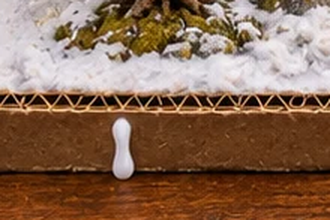
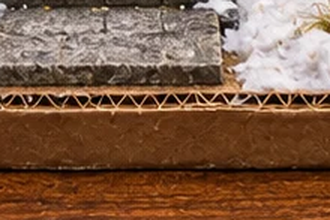
feat(field): D-prime の手順・目視項目・決定の追記、旧の段ボール見本(テープ入り)を参照から外す、craft を台帳参照に (Refs #191)

diff --git a/.claude/skills/sit-field-background/tools/oblique_e2_measure.py b/.claude/skills/sit-field-background/tools/oblique_e2_measure.py
@@ -68,6 +68,8 @@ HUMAN_ITEMS = [
     "質感が工作の素材（綿の雪・紙粘土・段ボール・紙やすり）か。実写のような質感・本物の雪になっていないか（屋根・塀・地面・枝の雪がすべて綿か。決定 SIT.miniature-materials-not-photoreal。採否の前に必ず挙げる）",
     "消雪パイプの穴が道路の中央線の上だけにあるか（路肩・縁・私有地・石畳に無いか。水の噴射が無いか。決定 SIT.shosetsu-hole-only）",
     "景色の扉（閉じた門・潜り戸・格子戸・土蔵の扉）が入れそうに見えないか（前に段・通路・足跡・石段・開いた隙間が無く、塀・段差・植栽・雪で塞がれているか。決定 SIT.scenery-door-not-enterable）",
+    "台座の前縁・飾りがわざとらしくないか（等間隔・全マップ同位置のテープ・糊の垂れ・同じ形の繰り返しが無いか。変化はマップごとにばらつく自然な傷み・汚れか。決定 SIT.base-edge-no-staged-decor）",
+    "鉄道模型のジオラマのような質感か（雪は繊維の見える綿、木は簡略化したスポンジの塊、塀・柵は爪楊枝・割り箸・マッチ棒、地面はターフ・おがくず。形は単純で縁が硬く、写真のように精密でないか）",
     "段ボールの土台・雪・木の質感の様式（手作りミニチュアらしさ）",
 ]
 

diff --git a/.claude/skills/sit-field-background/tools/oblique_material_sheet.py b/.claude/skills/sit-field-background/tools/oblique_material_sheet.py
@@ -32,7 +32,7 @@ CROPS = [
     ("03-plaster-wall-wood", T3, (1150, 170, 1370, 317), "紙粘土の漆喰壁と木の窓枠"),
     ("04-sponge-pine", T3, (1060, 690, 1280, 837), "スポンジと綿の松"),
     ("05-cut-stone-paving", T3, (770, 400, 990, 547), "石粉粘土の石畳"),
-    ("06-cardboard-edge", T3, (40, 790, 260, 937), "段ボール断面の台座"),
+    ("06-cardboard-edge", T3, (760, 790, 980, 937), "段ボール断面の台座（テープ・糊の垂れの無い区間）"),
     ("07-clay-stone-base", T8, (130, 780, 350, 927), "石粉粘土の石積みと綿の雪"),
     ("08-black-paper-road", T8, (560, 340, 780, 487), "黒紙とサンドペーパーの道"),
     ("09-clipped-hedge-wall", T8, (610, 740, 830, 887), "紙粘土の石垣と刈り込みの生垣"),

diff --git a/scripts/verify_ledger.rb b/scripts/verify_ledger.rb
@@ -55,7 +55,7 @@ class LedgerVerifier
   end
 
   # 描画定数・プロンプト文面: 空値なし、変数列と本文の {名前} が一致、コード（oblique_*.py）が参照するIDが全て在り、どの行もコードから参照されている（死んだ行を残さない）
-  CODE_REF = /["']((?:PR|MK|TP)\.[A-Za-z0-9._-]*|(?:view|width|door|window|slab|occlusion|topology|battle|town|tree)\.[A-Za-z0-9._-]*)["']/.freeze
+  CODE_REF = /["']((?:PR|MK|TP)\.[A-Za-z0-9._-]*|(?:view|width|door|window|slab|occlusion|topology|battle|town|tree|craft)\.[A-Za-z0-9._-]*)["']/.freeze
 
   def check_code_texts
     texts = @t['プロンプト文面']

diff --git a/docs/ledger-views/決定.md b/docs/ledger-views/決定.md
@@ -646,7 +646,7 @@
 | SIT.scenery-door-not-enterable | 2026-11-11 | 全体:sit-by-me | 有効 | 入れない景色としての扉（閉じた門・潜り戸・格子戸・土蔵の扉・冠木門など。plan の scenery_doors）を、入れるような見た目にしない。扉の前に石段・スロープ・足跡の道・開いた隙間・通路へ続く床を作らず、塀・段差・低い石垣・植栽・雪の吹き溜まり・積まれた物・雪囲いなどで塞ぎ、閉じた鎖・閂・錆・厚い雪の縁で『長く開けられていない』と読めるようにする。扉は歩ける床に直接面せず、必ず境界（段差・塀・溝）を挟む。既存の決定（景色の扉は通行しない・閉じている。DOORS は通行する戸口だけ）の具体化・強化で、全屋外MAP共通。 |
 | SIT.road-edge-solid-boundary | 2026-11-11 | 全体:sit-by-me | 有効 | 道路（歩く道）の両脇には必ず、段差・塀・側溝・縁石・護岸など実体のある境界を描く。道路の外側が歩けるように見えてはいけない（歩けない場所は歩けなさそうに見える）。決定 SIT.real-reference-boundaries の具体化・強化で、道路を含む屋外の全MAP共通。通れなくする手段（段差・側溝・縁石・土塀・石垣・板塀・生垣・護岸など）は1種類に固定せず、現実の寺町・町並みの写真・資料に基づいて区間ごとに使い分ける（同じ塀が延々と続く単調さを避ける）。隣り合うMAPのつなぎ目では、道の縁の境界の種類と位置が両側で一致する（隣で溝だった所をこちらで土塀に変えない）。採用済みのMAPを基準に、隣側を合わせる。 |
 | TRM.canal-continuity | 2026-11-11 | エリア:teramachi | 有効 | 【参謀の判断】寺町の用水は TRM-17 → TRM-16 → TRM-15 → TRM-08 へ流れる1本の用水として扱う。つなぎ目で道の縁の境界が食い違っていた2か所の正は『用水の護岸』: (1) TRM-16 右端・北縁と TRM-15 左端・北縁、(2) TRM-16 北端・東縁と TRM-17 下端・東縁。TRM-16 側の縁石と側溝・板塀を、既存の護岸の look（戸室石の野面積みの石積み護岸）に直す。用水の床（歩けない面）は足さず、boundaries の look だけで表す。 |
-| SIT.miniature-materials-not-photoreal | 2026-11-11 | 全体:sit-by-me | 有効 | フィールド背景は常に手作りミニチュア（ジオラマ）の工作の素材感で描く。現実の写真・資料は形・配置・材質の種類・経年の参考にするだけで、実写のような質感（フォトリアル）にしない。雪は綿（脱脂綿・ポリエステル綿を盛り、ちぎった質感）で、屋根・塀・地面・木の枝の雪もすべて綿。瓦・土塀・石垣・石積みは紙粘土・石粉粘土・スタイロフォーム・紙やすりの質感、木は紙粘土の幹とスポンジ・綿の葉、水・氷はレジンや透明樹脂の質感、舗装は紙やすり・黒紙の道、塗装は筆跡が見える。エリア固定ではなく全屋外・屋内MAP共通。 |
+| SIT.miniature-materials-not-photoreal | 2026-11-11 | 全体:sit-by-me | 有効 | フィールド背景は常に手作りミニチュア（ジオラマ）の工作の素材感で描く。現実の写真・資料は形・配置・材質の種類・経年の参考にするだけで、実写のような質感（フォトリアル）にしない。雪は綿（脱脂綿・ポリエステル綿を盛り、ちぎった質感）で、屋根・塀・地面・木の枝の雪もすべて綿。瓦・土塀・石垣・石積みは紙粘土・石粉粘土・スタイロフォーム・紙やすりの質感、木は紙粘土の幹とスポンジ・綿の葉、水・氷はレジンや透明樹脂の質感、舗装は紙やすり・黒紙の道、塗装は筆跡が見える。以前の材料表（2026-10-14 の『文章だけで作る方式』。スキル gates.md 120〜135 行付近）を復元する: 建物は厚紙・プラ板・段ボール・紙粘土の簡略な箱、塀・石垣は紙粘土や発泡スチロールに粗く描いた石（荒削りの紙粘土）、柵・竹垣・格子・門柱は爪楊枝・割り箸・マッチ棒、木は鉄道模型の木のように簡略化したスポンジ・毛糸・ドライフラワーの塊（枝は針金。松の形は台帳 TRM.trees-pine どおり）、地面・植え込みは鉄道模型のターフ・おがくず・フロッキング、道路は黒い画用紙か紙やすりにつや消しの薄いニス、用水は青いセロファンか透明レジン、電柱は割り箸、スノーポールは赤白テープの爪楊枝、小物はビーズ・ボタン。質感はプラスチックや土っぽく、粒子を荒くし、形は単純化して縁は硬く、写真のように精密にしない。手作りの粗はマップごとにばらつく自然な傷み・塗りムラ・糸くず・紙のギザギザにとどめ、等間隔の飾りは置かない。エリア固定ではなく全屋外・屋内MAP共通。 |
 | SIT.base-edge-no-staged-decor | 2026-11-11 | 全体:sit-by-me | 有効 | 台座の前縁（段ボールの台座の側面）は波形の段ボール断面だけにする。マスキングテープ・白い糊の垂れなど、等間隔・全マップ共通の『ヤラセ臭い』飾りは置かない（プロンプト・plan・装飾プール・エリア固定・モックから削除）。変化を足すときは、マップごとにばらつく自然な傷み・汚れに限る。 |
 | TRM.tree-size-uneven | 2026-11-02 | エリア:teramachi | 有効 | 寺町の木はサイズが均等でない。異常に高い古い木（巨木）がある寺が多い。エリア固定の木（松・枯木）は同じ大きさの木を並べる指定にせず、木の大きさのばらつき（普通の木と、飛び抜けて高い古木）を台帳に書く。巨木の位置・本数は MAP ごとに現実の写真・資料を参考に決める（寺の境内・門前に出やすい）。 |
 | SIT.no-reference-photo-images | 2026-11-02 | 全体:sit-by-me | 有効 | フィールド背景の生成に、現実の参考写真を画像として渡さない。現実参照は台帳の look（文章）で伝える。以前の良かった背景は参考写真を渡さなくても良い出来だったので、今回も渡さない。 |
@@ -5935,11 +5935,11 @@ TRM-03 から住居・幼稚園へ屋外を経由する新規doorは作らない
 
 ### SIT.miniature-materials-not-photoreal（2026-11-11・有効）
 
-フィールド背景は常に手作りミニチュア（ジオラマ）の工作の素材感で描く。現実の写真・資料は形・配置・材質の種類・経年の参考にするだけで、実写のような質感（フォトリアル）にしない。雪は綿（脱脂綿・ポリエステル綿を盛り、ちぎった質感）で、屋根・塀・地面・木の枝の雪もすべて綿。瓦・土塀・石垣・石積みは紙粘土・石粉粘土・スタイロフォーム・紙やすりの質感、木は紙粘土の幹とスポンジ・綿の葉、水・氷はレジンや透明樹脂の質感、舗装は紙やすり・黒紙の道、塗装は筆跡が見える。エリア固定ではなく全屋外・屋内MAP共通。
+フィールド背景は常に手作りミニチュア（ジオラマ）の工作の素材感で描く。現実の写真・資料は形・配置・材質の種類・経年の参考にするだけで、実写のような質感（フォトリアル）にしない。雪は綿（脱脂綿・ポリエステル綿を盛り、ちぎった質感）で、屋根・塀・地面・木の枝の雪もすべて綿。瓦・土塀・石垣・石積みは紙粘土・石粉粘土・スタイロフォーム・紙やすりの質感、木は紙粘土の幹とスポンジ・綿の葉、水・氷はレジンや透明樹脂の質感、舗装は紙やすり・黒紙の道、塗装は筆跡が見える。以前の材料表（2026-10-14 の『文章だけで作る方式』。スキル gates.md 120〜135 行付近）を復元する: 建物は厚紙・プラ板・段ボール・紙粘土の簡略な箱、塀・石垣は紙粘土や発泡スチロールに粗く描いた石（荒削りの紙粘土）、柵・竹垣・格子・門柱は爪楊枝・割り箸・マッチ棒、木は鉄道模型の木のように簡略化したスポンジ・毛糸・ドライフラワーの塊（枝は針金。松の形は台帳 TRM.trees-pine どおり）、地面・植え込みは鉄道模型のターフ・おがくず・フロッキング、道路は黒い画用紙か紙やすりにつや消しの薄いニス、用水は青いセロファンか透明レジン、電柱は割り箸、スノーポールは赤白テープの爪楊枝、小物はビーズ・ボタン。質感はプラスチックや土っぽく、粒子を荒くし、形は単純化して縁は硬く、写真のように精密にしない。手作りの粗はマップごとにばらつく自然な傷み・塗りムラ・糸くず・紙のギザギザにとどめ、等間隔の飾りは置かない。エリア固定ではなく全屋外・屋内MAP共通。
 
-> 「気になったが、この町の風景を作る際に、ミニチュアで再現しているという大事な制約が消えてないか。実写のような質感になっている」「雪は綿で作るとかだ」（kako-jun 2026-11-11、TRM-07・09 の生成を見て）
+> 「気になったが、この町の風景を作る際に、ミニチュアで再現しているという大事な制約が消えてないか。実写のような質感になっている」「雪は綿で作るとかだ」（kako-jun 2026-11-11、TRM-07・09 の生成を見て）「よい。まだミニチュアっぽくはないが」（kako-jun 2026-11-11、TRM-07 の素材感の実験の案D'を見て）「以前はもっと本当の綿に見えてたし、鉄道模型のジオラマのような質感の地面や建物だった。マッチやつまようじなどもはっきりわかった」（kako-jun 2026-11-11）
 
-- 出典: Issue #191（https://github.com/kako-jun/sit-by-me/issues/191#issuecomment-6789164993） ／ プロンプト出力: なし
+- 出典: Issue #191（https://github.com/kako-jun/sit-by-me/issues/191#issuecomment-6789164993;https://github.com/kako-jun/sit-by-me/issues/191#issuecomment-6790315494;https://github.com/kako-jun/sit-by-me/issues/191#issuecomment-6790514673） ／ プロンプト出力: なし
 
 ### SIT.base-edge-no-staged-decor（2026-11-11・有効）
 

diff --git a/.claude/skills/sit-field-background/SKILL.md b/.claude/skills/sit-field-background/SKILL.md
@@ -49,7 +49,8 @@ kako-jun 指示（逐語）: 『モックは最低限こういう位置関係に
 14. **道路の縁は実体・消雪パイプは穴だけ（全屋外MAP共通。毎回の指示は不要。kako-jun 2026-11-11、Issue #191）。** 文面と理由の正本は台帳（決定 `SIT.road-edge-solid-boundary`・`SIT.shosetsu-hole-only`、プロンプト文面 `PR.reality.road-edge`・`PR.reality.shosetsu`・`PR.forbid.road-edge`・`PR.forbid.shosetsu`）。屋外の全MAPのプロンプトに自動で出るので、MAP ごとの plan に書き足さない。変わるのは plan に `boundaries[]`（道の両脇の実体）を置く義務だけ: 歩ける床の縁で歩けない面に接する辺に実体が付いていないと `oblique_build.road_edge_uncovered` が警告する（平面の外周＝隣MAPへの出入口は対象外）。消雪パイプを `variation` や台帳の見た目に書くときは『穴だけ・水は出さない』にする。通れなくする手段（段差・側溝・縁石・土塀・石垣・板塀・生垣・護岸）は区間ごとに使い分け（同種だけの `boundaries` は警告）、隣のMAPとのつなぎ目では境界の種類を両側で揃える（採用済みのMAPを基準に隣側を合わせる。プロンプトの SEAM 節に隣の境界の種類が出る。検査は `scripts/verify_seam_boundaries.py`、`verify_map_ledger.rb` から実行）。反映は `verify_prompt_reflects_ledger.rb`（check_reality）が全屋外MAPで検査する。
 15. **ミニチュア（工作の素材）で作る（全MAP共通。kako-jun 2026-11-11、Issue #191）。** 現実の写真・資料は形・配置・材質の種類・経年の参考だけで、表現は常に手作りミニチュア。雪は綿（屋根・塀・地面・枝の雪も全部）。文面と理由の正本は台帳（決定 `SIT.miniature-materials-not-photoreal`、プロンプト文面 `PR.reality.miniature`・`PR.forbid.miniature`）。プロンプトに**新しい節を足すときは `pitfalls.md` G のチェックリストで、中核制約（手作りミニチュア・綿の雪・段ボールの台座）と競合しないか確認する**。機械検査は `verify_prompt_reflects_ledger.rb` の `check_core_constraints`。
 16. **消雪パイプの穴は道路の中央線の上だけ・景色の扉は入れる見た目にしない（全屋外MAP共通。kako-jun 2026-11-11、Issue #191）。** 正本は台帳（決定 `SIT.shosetsu-hole-only`〔位置は中央線上だけ〕・`SIT.scenery-door-not-enterable`、プロンプト文面 `PR.reality.shosetsu`・`PR.forbid.shosetsu`・`PR.door.scenery-head`）。MAP ごとに指示しない。景色の扉の前が境界を挟まず歩ける床に接すると `scenery_door_front_problems` が警告する。生成後の目視項目にも出る。
-13. プロンプトには屋外MAPで `REALITY` 節（台帳 `プロンプト文面.PR.reality`）が出る。モックは位置の指定にすぎないこと・境界の実体・歩けない理由・木のばらつきを送信文に明記するため。**幾何の測定ゲートが通ることは見た目の良し悪しと無関係**（`pitfalls.md` F）。
+17. **D-prime（ミニチュア素材の復元。kako-jun 2026-11-11、Issue #191）。** 正本は台帳（決定 `SIT.miniature-materials-not-photoreal`・`SIT.base-edge-no-staged-decor`、プロンプト文面 `PR.miniature`、描画定数 `craft.words`）。①`MINIATURE MATERIALS` は ROLE の直後・全MAP共通（材料表=爪楊枝・割り箸・マッチ棒・鉄道模型の木・ターフ・綿）。②屋外の `REALITY` 節は `STRUCTURE` に改名済み。③送信文は組んだ最後に `craft_words` が実物語（版築・釉薬瓦・戸室石・錆・濡れた艶・藁すさ 等）を工作語へ置換する（台帳の look は実物の語のまま）。④素材見本シート（`docs/production/oblique-mocks/material-swatch/`。`tools/oblique_material_sheet.py crops|build|check`）が E2 の参照画像に常に付く。⑤台座の前縁にテープ・糊の垂れなどの飾りは置かない。手順・合格基準は `pitfalls.md` G の「D-prime」を参照。
+13. プロンプトには屋外MAPで `STRUCTURE` 節（旧 `REALITY`）（台帳 `プロンプト文面.PR.reality`）が出る。モックは位置の指定にすぎないこと・境界の実体・歩けない理由・木のばらつきを送信文に明記するため。**幾何の測定ゲートが通ることは見た目の良し悪しと無関係**（`pitfalls.md` F）。
 
 ## 新しいエリア・MAP を作る手順（エリア景観。全エリア共通。kako-jun 2026-11-02、Issue #191。決定 `SIT.area-landscape-research`）
 

diff --git a/.claude/skills/sit-field-background/pitfalls.md b/.claude/skills/sit-field-background/pitfalls.md
@@ -116,3 +116,11 @@
 2. 新しい節の最後、または直後に中核制約を再掲して統合する（競合する節は、中核制約を後ろに置く）。
 3. `verify_prompt_reflects_ledger.rb` の `check_core_constraints` が通ること。新しい節が中核制約の語を否定していないか機械検査される。
 4. 生成後の目視で『質感が工作の素材か』を採否の前に挙げる（`metrics.md` の目視確認項目）。
+
+**D-prime の手順と合格基準（TRM-07 の素材感の実験。2026-11-11、Issue #191）**
+
+- 実験の所見: A（見本シートのみ）・D（look の材質語を工作語化のみ）は素材感が不足、E（変換）は位置は保てるが素材が変わらない、C は素材感が強いが装飾が減る。**D-prime（D＋見本シート）が素材感・意匠保持・幾何で最良**（recall 0.832、chamfer 3.30）。kako-jun も『よい。まだミニチュアっぽくはないが』。以前の良い絵（2026-10-14、`22dc9511`）の鉄道模型の質感は、材料名の指定表（gates.md）から来ていたので復元した。
+- 手順: ①`oblique_material_sheet.py check`（シートが crops と一致）→ ②`oblique_build.py PLAN --from prompt` でプロンプトを再生成（置換後の送信文）→ ③`DRY_RUN=1 oblique_e2_run.sh MAP 1 e2/<ラウンド>` で参照画像（編集元・見本シート・親の採用画像）を確認 → ④`oblique_e2_run.sh MAP 1 e2/<ラウンド>`（最小1枚で 429 を確認。同時生成は2件まで）→ ⑤`metrics.md` を見る。
+- 合格基準（幾何。参考）: edge recall ≥ 0.73、chamfer ≤ 4.7。実験の最良は recall 0.832・chamfer 3.30。
+- 目視項目（`metrics.md` の「kako-jun の目視確認項目」に出る。採否の前に必ず挙げる）: 質感が工作の素材か／鉄道模型のジオラマのような質感か／台座の前縁・飾りがわざとらしくないか／消雪パイプの穴が中央線だけか／景色の扉が入れそうに見えないか。
+- 台座の前縁のテープ・糊の垂れは置かない（等間隔・全マップ同位置でヤラセ臭い）。旧の段ボール断面の見本（テープ入り）は参照画像に付けない。
